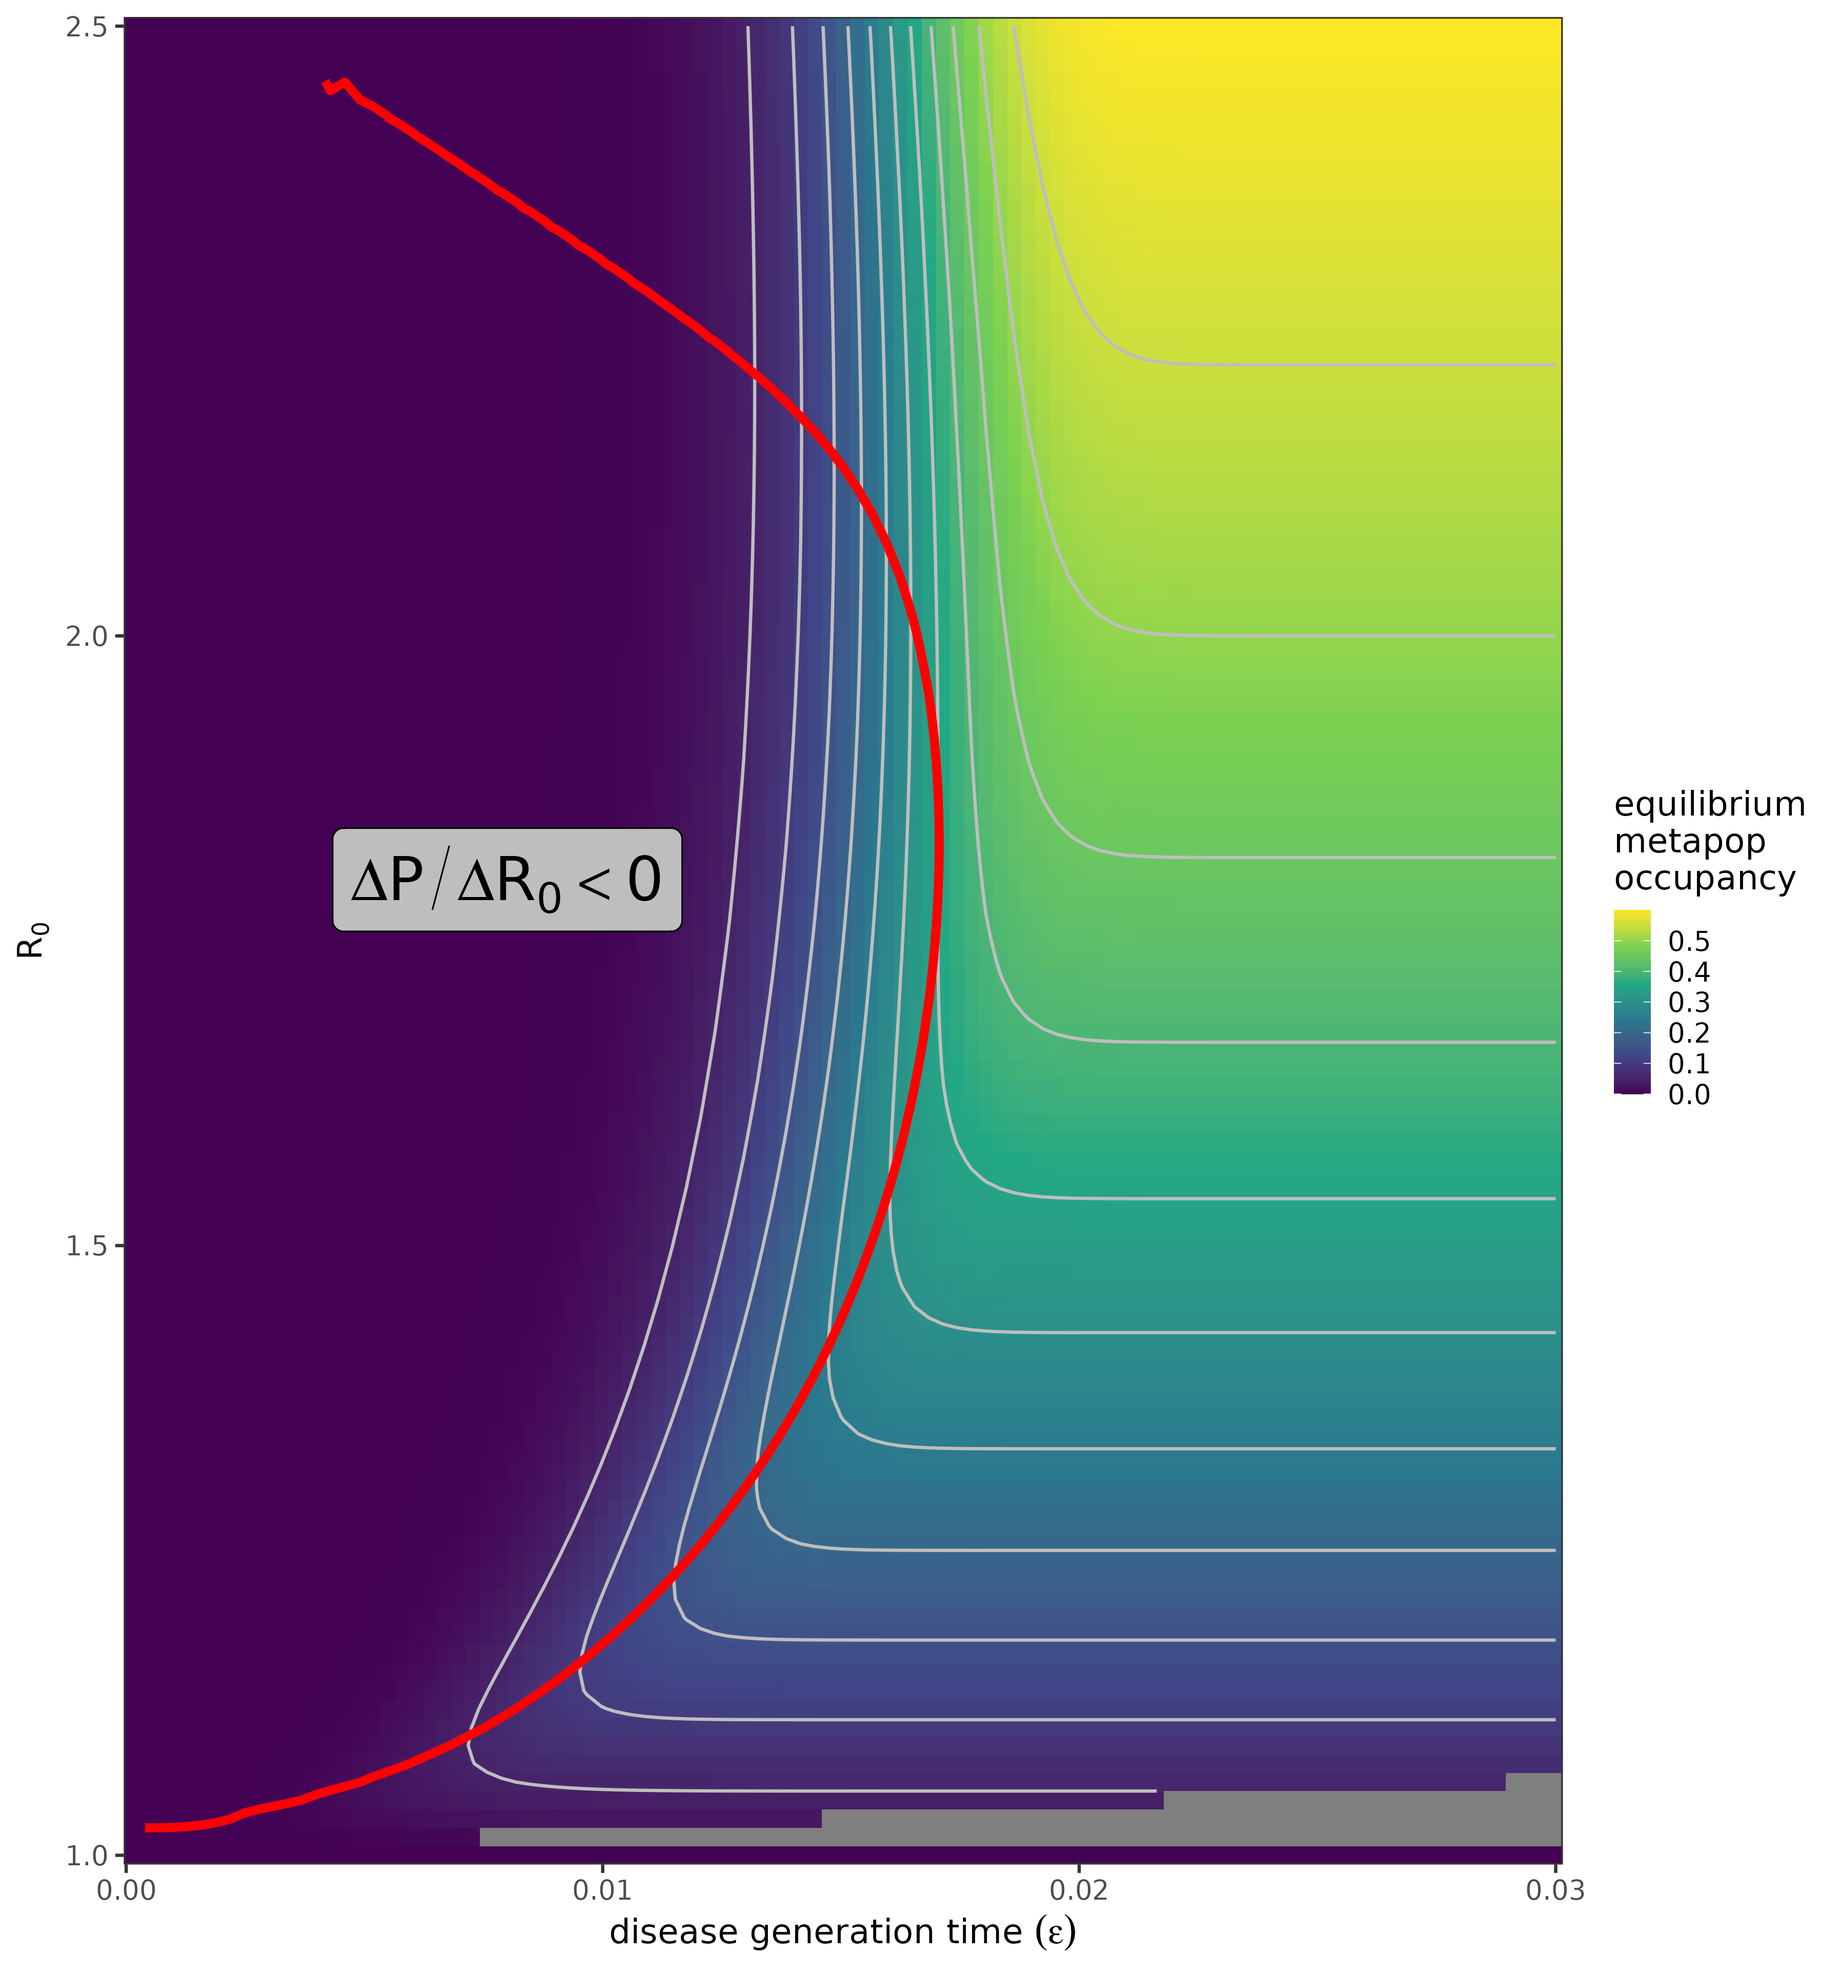
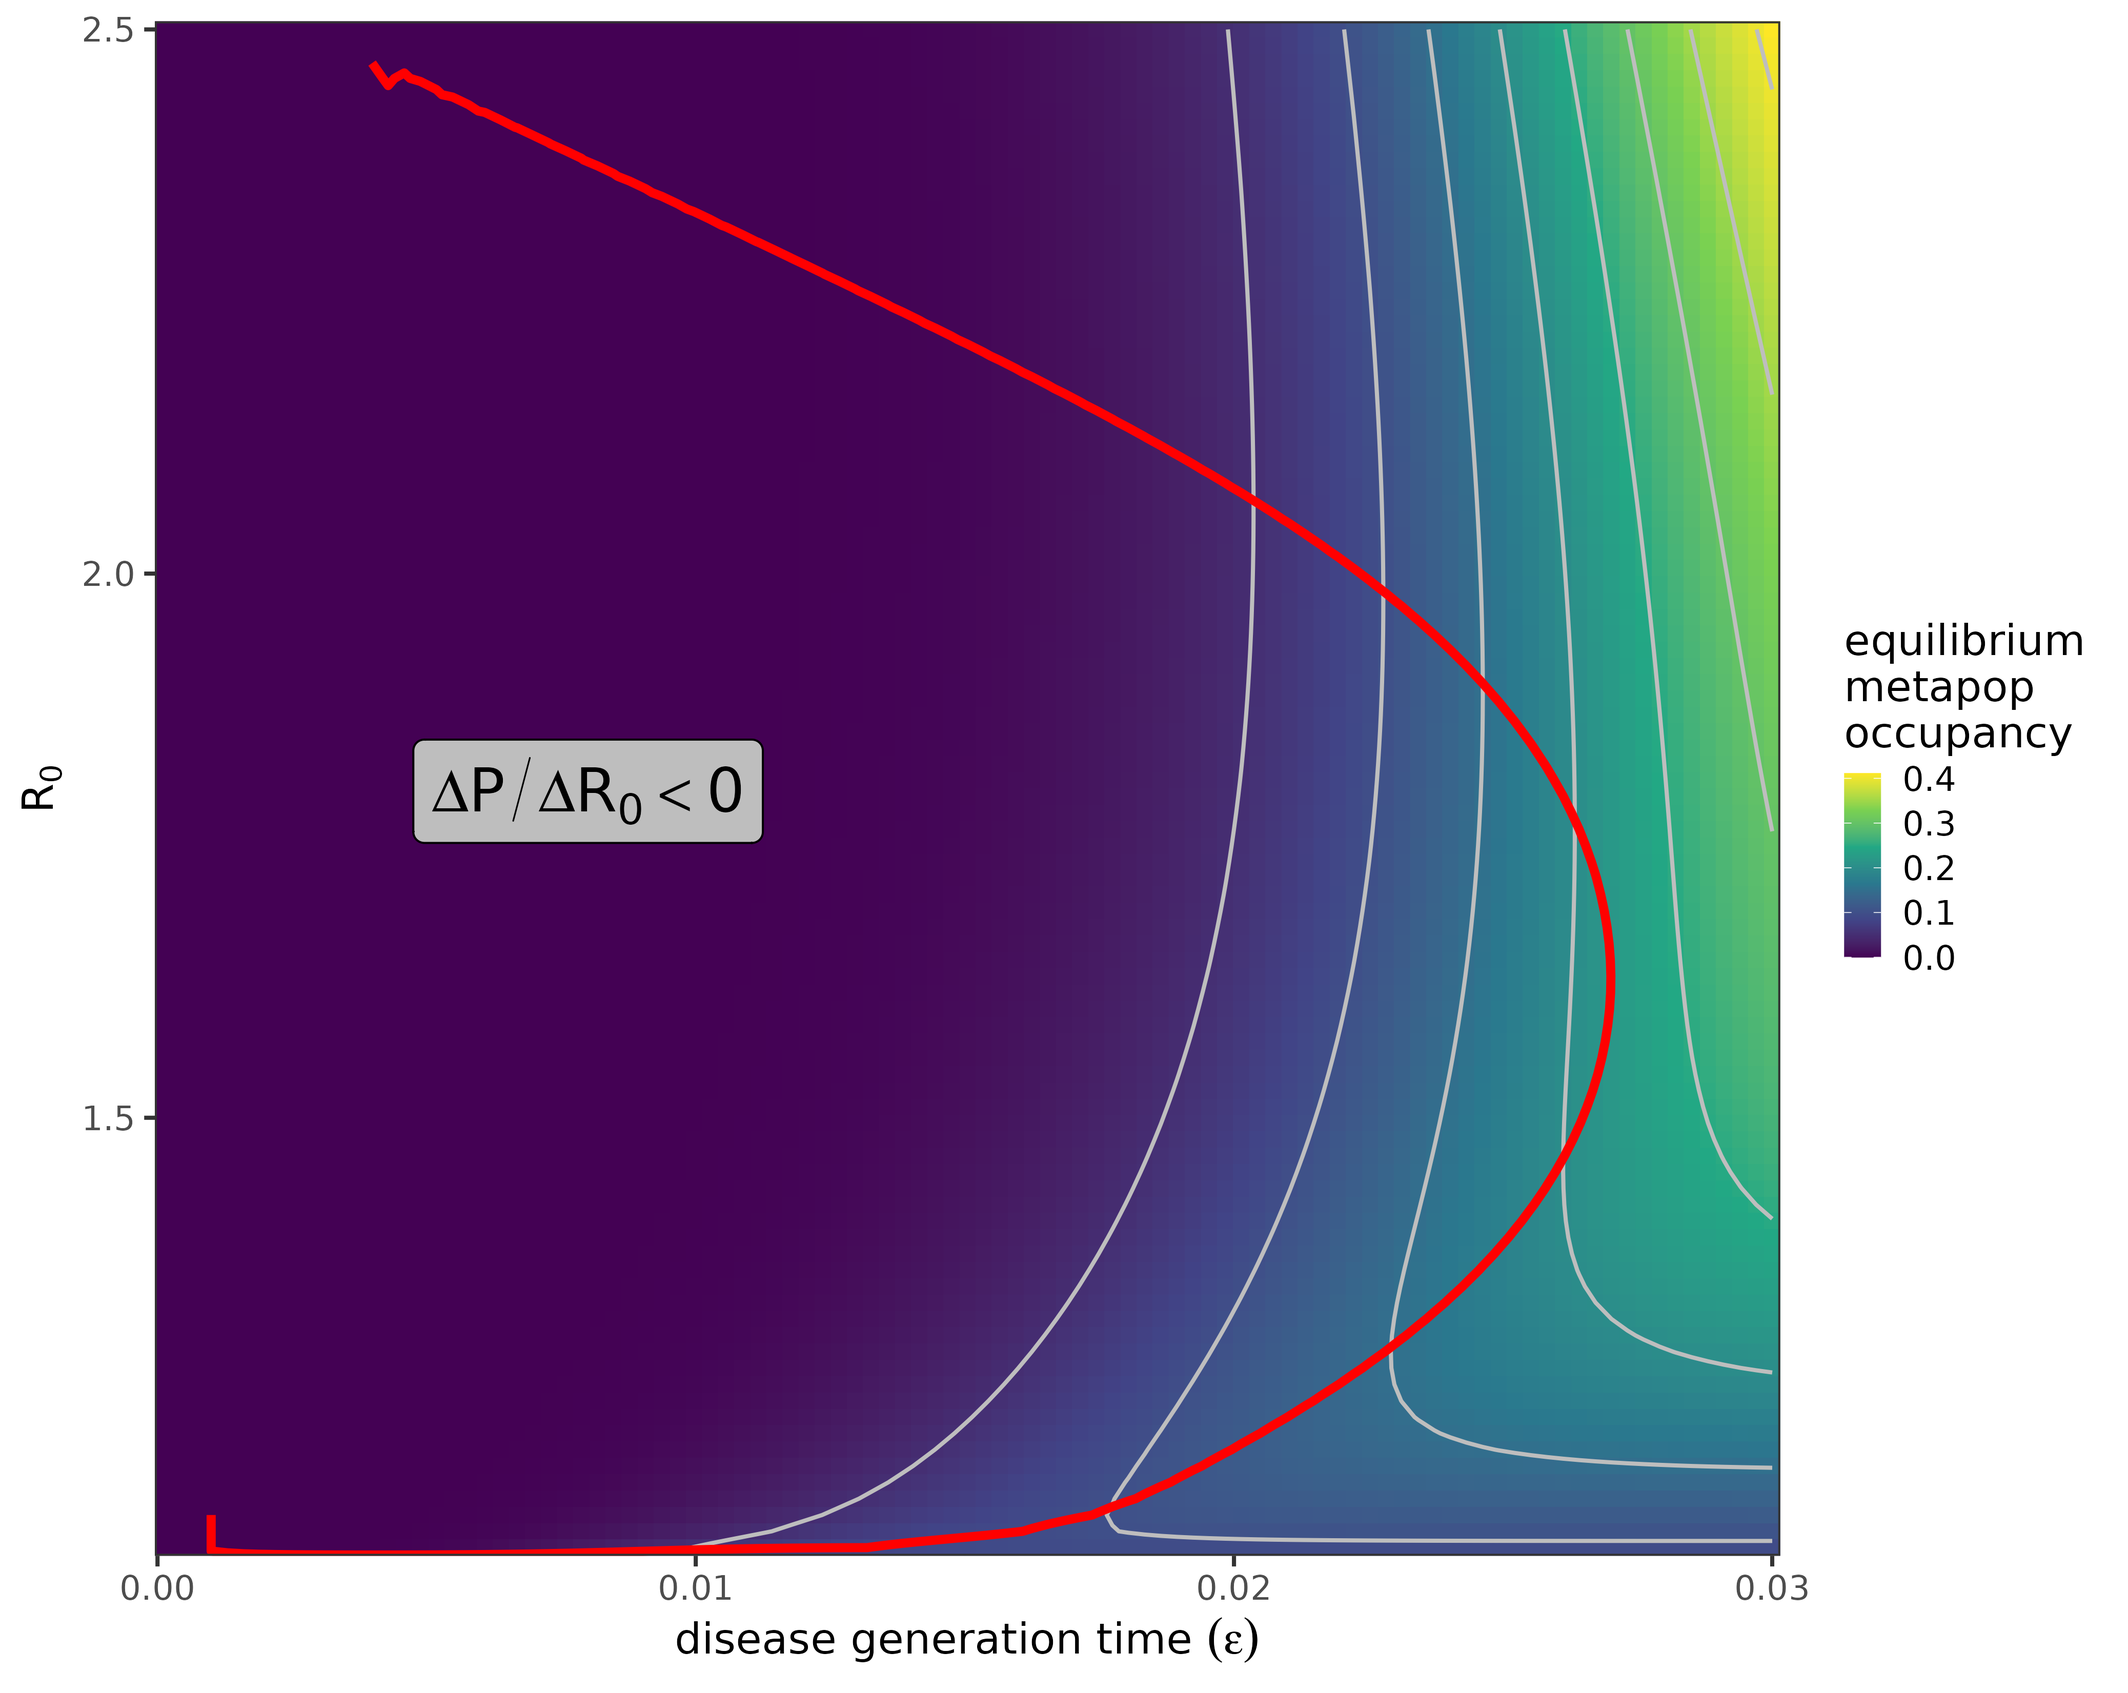
working on SSC talk

diff --git a/metapop/talks/TODO.md b/metapop/talks/TODO.md
@@ -2,21 +2,9 @@
 
 ### logistics
 
-* install new quarto-revealjs-editable ?
-* make + switch
-* slide 6: re-edit,
-* pictures!
-* extinction plots: Reed-Frost, logistic, leaky-bucket
+## plots
 
-## slides
-
-* slide 6 (tradeoff theory) - move quote, add basic tradeoff text
-* define a metapopulation
-* re-add caption to persistence probability slide
-* simpler version of euler_onestrain_plot.png
-
-* 
-* add eps = 0.04
+slide 15: add fizzle/burnout labels?
 
 ## calculations
 
